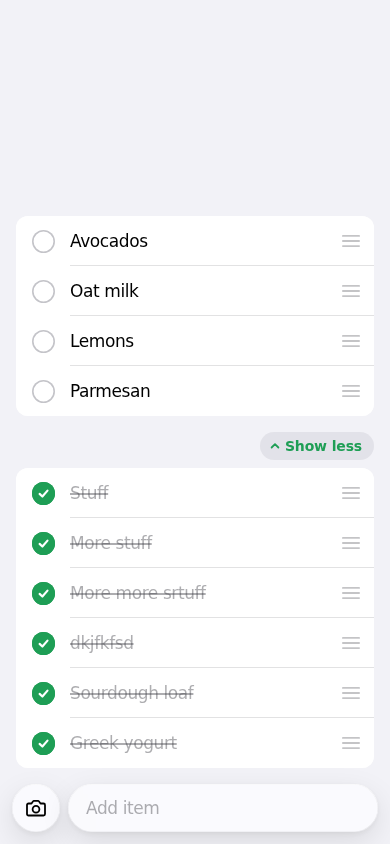
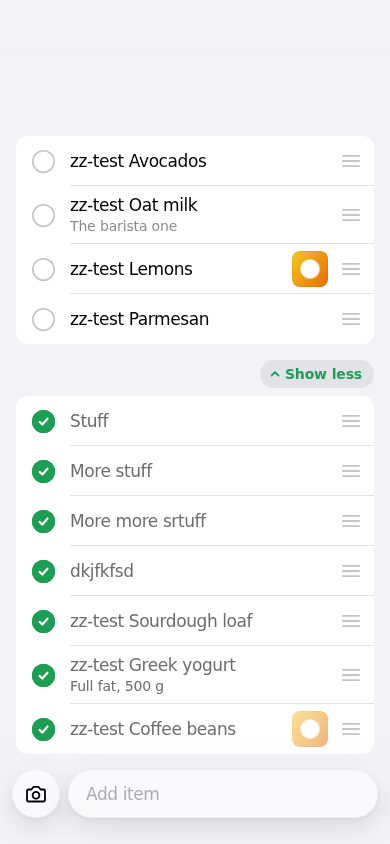
Readable checked items, landscape, full-height home-screen app
Checked items lose the strike-through and get an AA-contrast colour.
Side safe-area insets, rotation and the photo viewer work in landscape.
In standalone mode the app is sized by 100vh, since iOS can report a
layout viewport shorter than the screen there.

diff --git a/app/src/react-app/ui/list-view.ts b/app/src/react-app/ui/list-view.ts
@@ -67,35 +67,45 @@ export function mountListView(container: HTMLElement, store: ListStore): ListVie
   };
 
   /* ---------------- Layout: composer, keyboard, padding ---------------- */
-  c.topInset = () => topfade.offsetHeight - 8;
+  c.topInset = () => Math.max(topfade.offsetHeight - 8, window.visualViewport?.offsetTop ?? 0);
   c.composerTop = () => { // y within scroller viewport where composer begins
     const r = composer.getBoundingClientRect(), s = scroller.getBoundingClientRect();
     return app.classList.contains("editing") ? s.height - c.kb : r.top - s.top;
   };
   c.atBottom = () => scroller.scrollHeight - scroller.clientHeight - scroller.scrollTop < 24;
   c.scrollToBottom = () => { scroller.scrollTop = scroller.scrollHeight; };
-  c.layoutPad = () => {
+  c.layoutPad = (stick = c.atBottom()) => {
     const editing = app.classList.contains("editing");
-    const stick = c.atBottom();
     // layout position, so the composer's slide-away transform doesn't count
     const pad = editing ? c.kb + 24 : Math.max(0, scroller.clientHeight - composer.offsetTop) + 16;
     content.style.setProperty("--pad-bottom", pad + "px");
     if (stick) c.scrollToBottom();
   };
+  // whether the list was scrolled to the bottom before the viewport last changed size
+  let pinned = true;
+  scroller.addEventListener("scroll", () => { pinned = c.atBottom(); }, { passive: true, signal });
+  let lastW = window.innerWidth, lastSize = "";
+  const scrollerSize = () => scroller.clientWidth + "x" + scroller.clientHeight;
   function onViewport() {
     const vv = window.visualViewport;
-    let kb = !vv ? 0 : Math.max(0, Math.round(window.innerHeight - vv.height - vv.offsetTop));
-    if (kb < 60) kb = 0;
+    // open: the visual viewport lost height to something; how much of the app it covers is measured
+    // from the app's own bottom, which in an iOS home-screen app can lie below innerHeight
+    const open = !!vv && window.innerHeight - vv.height - vv.offsetTop >= 60;
+    const kb = open ? Math.max(0, Math.round(app.getBoundingClientRect().bottom - vv!.offsetTop - vv!.height)) : 0;
     c.kb = kb;
     app.style.setProperty("--kb", kb + "px");
     app.classList.toggle("kb-open", kb > 0);
+    // rotation: a finger still down would act on stale geometry
+    if (window.innerWidth !== lastW) { lastW = window.innerWidth; cancelPointers(); }
+    const resized = scrollerSize() !== lastSize;
+    lastSize = scrollerSize();
     setTimeout(() => {
       c.layoutPad();
       const a = document.activeElement;
-      const cell = a && a.closest(".cell");
+      const cell = (a && a.closest(".cell")) || (resized && c.cellById(c.openId));
       if (cell) c.ensureVisible(cell, 12);
     }, c.dur(320));
-    c.layoutPad();
+    c.layoutPad(resized ? pinned : undefined);
   }
   if (window.visualViewport) {
     visualViewport!.addEventListener("resize", onViewport, { signal });
@@ -290,6 +300,11 @@ export function mountListView(container: HTMLElement, store: ListStore): ListVie
       else { if (c.revealed === g.li) c.revealed = null; c.setSlide(g.li, 0, "snap"); }
     }
   }
+  function cancelPointers() {
+    for (const pid of [c.drag?.pid, c.gesture?.pid, c.dismiss?.pid]) {
+      if (pid != null) endPointer({ pointerId: pid, clientX: 0, clientY: 0 } as PointerEvent, true);
+    }
+  }
   document.addEventListener("pointerup", (e) => endPointer(e, false), { signal });
   document.addEventListener("pointercancel", (e) => endPointer(e, true), { signal });
 
@@ -394,6 +409,7 @@ export function mountListView(container: HTMLElement, store: ListStore): ListVie
   const unsubscribe = store.subscribe(onStore);
 
   /* ---------------- Boot ---------------- */
+  lastSize = scrollerSize();
   if (store.loaded) render();
   c.layoutPad();
   requestAnimationFrame(() => { c.layoutPad(); c.scrollToBottom(); });

diff --git a/app/src/react-app/ui/styles.css b/app/src/react-app/ui/styles.css
@@ -7,6 +7,7 @@
   --label2:rgba(60,60,67,.6);
   --label3:rgba(60,60,67,.3);
   --placeholder:rgba(60,60,67,.42);
+  --label-done:#6C6C70;
   --sep:rgba(60,60,67,.29);
   --fill:rgba(118,118,128,.12);
   --fill-strong:rgba(118,118,128,.2);
@@ -27,8 +28,9 @@
   --hair:1px;
   --sat:env(safe-area-inset-top,0px);
   --sab:env(safe-area-inset-bottom,0px);
-  --sal:env(safe-area-inset-left,0px);
-  --sar:env(safe-area-inset-right,0px);
+  /* side insets as seen by the centred column, which stays clear of them once the screen is wider than it */
+  --sal:max(0px,env(safe-area-inset-left,0px) - max(0px,(100vw - 430px) / 2));
+  --sar:max(0px,env(safe-area-inset-right,0px) - max(0px,(100vw - 430px) / 2));
   --kb:0px;
   --spring:cubic-bezier(.34,1.36,.64,1);
   --spring-soft:cubic-bezier(.3,1.18,.5,1);
@@ -46,6 +48,7 @@
     --label2:rgba(235,235,245,.6);
     --label3:rgba(235,235,245,.3);
     --placeholder:rgba(235,235,245,.4);
+    --label-done:#98989D;
     --sep:rgba(84,84,88,.65);
     --fill:rgba(118,118,128,.24);
     --fill-strong:rgba(118,118,128,.32);
@@ -85,6 +88,8 @@ svg{display:block}
 /* ---------- App column ---------- */
 #root{height:100%}
 .app{position:fixed;inset:0;margin:0 auto;max-width:430px;overflow:hidden;background:var(--bg)}
+/* iOS home-screen apps can report a layout viewport shorter than the screen; 100vh is the full screen there */
+@media (display-mode:standalone){.app{bottom:auto;height:100vh}}
 @media (min-width:431px){
   html,body{background:#E4E4E9}
   .app{box-shadow:0 0 0 .5px rgba(0,0,0,.06),0 12px 48px rgba(0,0,0,.10)}
@@ -184,14 +189,13 @@ svg{display:block}
 .name{
   font-size:17px;line-height:22px;letter-spacing:-.41px;white-space:nowrap;overflow:hidden;text-overflow:ellipsis;
   color:var(--label);transition:color .25s var(--ease);
-  text-decoration-line:line-through;text-decoration-color:transparent;text-decoration-thickness:1.5px;
 }
-.cell.checked .name{color:var(--placeholder);text-decoration-color:var(--placeholder)}
+.cell.checked .name{color:var(--label-done)}
 .desc{
   font-size:14px;line-height:18px;color:var(--label2);letter-spacing:-.15px;margin-top:1px;
   white-space:nowrap;overflow:hidden;text-overflow:ellipsis;transition:color .25s var(--ease);
 }
-.cell.checked .desc{color:var(--label3)}
+.cell.checked .desc{color:var(--label-done)}
 .cell:not(.has-desc) .desc{display:none}
 
 .thumb{
@@ -328,7 +332,7 @@ svg{display:block}
 .viewer[hidden]{display:none}
 .viewer.on{background:rgba(0,0,0,.94)}
 .viewer img{
-  position:absolute;inset:0;margin:auto;max-width:100%;max-height:calc(100% - var(--sat) - var(--sab) - 40px);
+  position:absolute;inset:0 var(--sar) 0 var(--sal);margin:auto;max-width:calc(100% - var(--sal) - var(--sar));max-height:calc(100% - var(--sat) - var(--sab) - 40px);
   display:block;transform-origin:0 0;pointer-events:none;
 }
 .viewer img.anim{transition:transform .42s var(--spring-soft),opacity .25s var(--ease),border-radius .42s var(--ease)}

diff --git a/app/src/react-app/ui/editor.ts b/app/src/react-app/ui/editor.ts
@@ -202,6 +202,9 @@ export function installEditor(c: Ctx): () => void {
     }, 0);
   }, { signal: c.signal });
 
+  // a rotated row is wider or narrower, so the description wraps differently
+  window.addEventListener("resize", () => app.querySelectorAll<HTMLTextAreaElement>(".f-desc").forEach(grow), { signal: c.signal });
+
   return () => {
     if (draft) clearTimeout(draft.timer);
     draft = null;

diff --git a/app/src/react-app/ui/context.ts b/app/src/react-app/ui/context.ts
@@ -67,7 +67,7 @@ export interface Ctx {
   composerTop(): number;
   atBottom(): boolean;
   scrollToBottom(): void;
-  layoutPad(): void;
+  layoutPad(stick?: boolean): void;
   ensureVisible(el: Element, margin?: number, smooth?: boolean): void;
   removeCell(li: HTMLElement, swiped: boolean): void;
   removeCellDom(li: HTMLElement, swiped: boolean): void;
